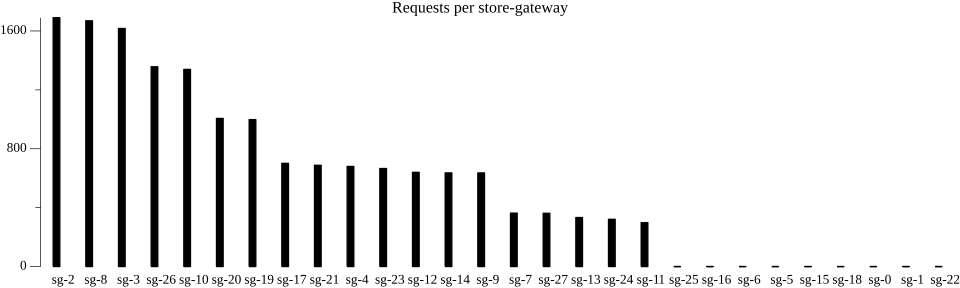
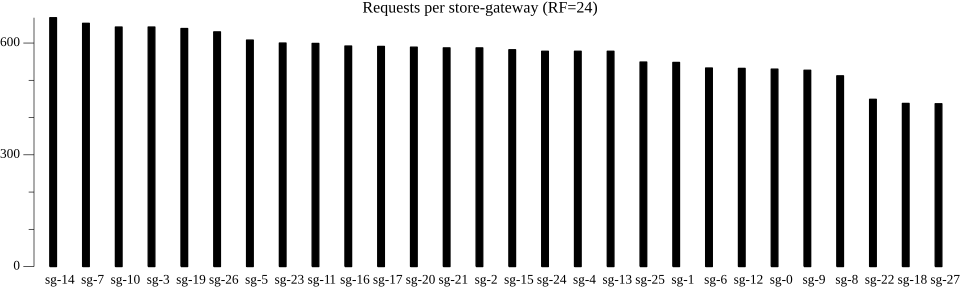
RF simulations

Changed region(s): [[0.0, 0.0625, 1.0, 1.0], [0.375, 0.0, 0.625, 0.0625]]

diff --git a/cmd/sg-loadbalancing-sim/main.go b/cmd/sg-loadbalancing-sim/main.go
@@ -17,6 +17,7 @@ import (
 const numPartitions = 16
 const numStoreGateways = 28
 const numDaysInThePast = 7
+const replicationFactor = 24
 
 func main() {
 	rand.Seed(time.Now().UnixNano())
@@ -46,8 +47,8 @@ func main() {
 
 	fmt.Printf("Queried store-gateways: %v\n", sgsQueried)
 	fmt.Printf("Blocks owned by store-gateways: %v\n", ownershipCount)
-	PlotGraph(sgsQueried, "queried.png", "Requests per store-gateway")
-	PlotGraph(ownershipCount, "blocksOwned.png", "Blocks owned per store-gateway")
+	PlotGraph(sgsQueried, "queried.png", fmt.Sprintf("Requests per store-gateway (RF=%d)", replicationFactor))
+	PlotGraph(ownershipCount, "blocksOwned.png", fmt.Sprintf("Blocks owned per store-gateway (RF=%d)", replicationFactor))
 }
 
 type Pair struct {
@@ -104,12 +105,15 @@ func assignBlocks(blocks []Block, sgs []string) (ownership map[string][]string) 
 
 	// Assign blocks to store-gateways
 	for _, block := range blocks {
-		hash := uint64(cortex_tsdb.HashBlockID(block.id))
-		sg1 := hash % uint64(len(sgs))
-		sg2 := (sg1 + 1) % uint64(len(sgs))
-		sg3 := (sg1 + 2) % uint64(len(sgs))
+		hash := cortex_tsdb.HashBlockID(block.id)
 
-		ownership[block.id.String()] = []string{sgs[sg1], sgs[sg2], sgs[sg3]}
+		sgsForBlock := []string{}
+		for i := 0; i < replicationFactor; i++ {
+			sg := (hash%uint32(len(sgs)) + uint32(i)) % uint32(len(sgs))
+			sgsForBlock = append(sgsForBlock, sgs[sg])
+		}
+
+		ownership[block.id.String()] = sgsForBlock
 	}
 
 	return ownership
